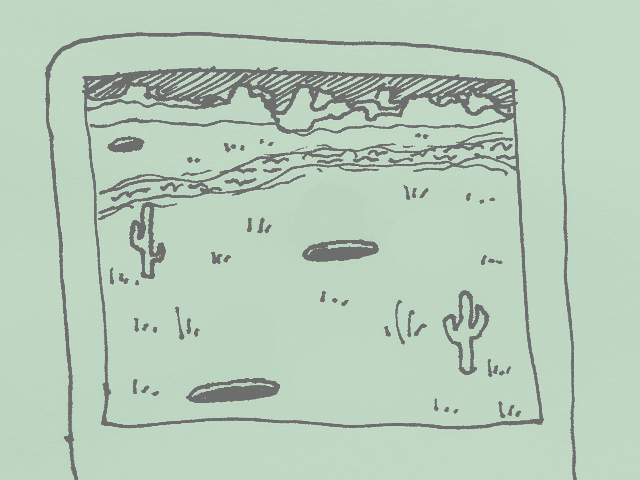
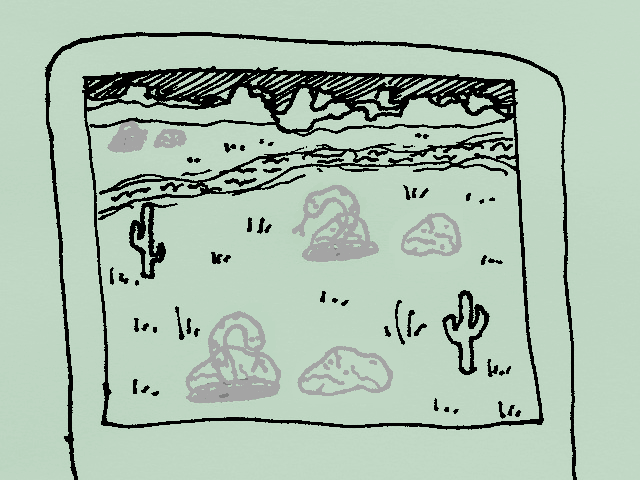
edited graphics

diff --git a/games/rocksimlcd/rocksimlcd.js b/games/rocksimlcd/rocksimlcd.js
@@ -20,31 +20,31 @@ function draw() {
     draw_sprite(canvas, bg, 0, 0);
 
     if (snake_timer_0 <= 0) {
-        draw_sprite(canvas, snake_img[0], 108, 115);
+        draw_sprite(canvas, snake_img[0], 102, 119);
     }
     if (snake_timer_1 <= 0) {
-        draw_sprite(canvas, snake_img[1], 180, 298);
+        draw_sprite(canvas, snake_img[1], 177, 293);
     }
     if (snake_timer_2 <= 0) {
-        draw_sprite(canvas, snake_img[2], 283, 183);
+        draw_sprite(canvas, snake_img[2], 284, 183);
     }
     if (pos == 0 && jump == false) {
-        draw_sprite(canvas, rock_img[0], 156, 126);
+        draw_sprite(canvas, rock_img[0], 148, 125);
     }
     if (pos == 0 && jump) {
         draw_sprite(canvas, rock_img[0], 149-40, 126);
     }
     if (pos == 1 && jump == false) {
-        draw_sprite(canvas, rock_img[1], 290, 337);
+        draw_sprite(canvas, rock_img[1], 289, 337);
     }
     if (pos == 1 && jump) {
-        draw_sprite(canvas, rock_img[1], 290-110, 337);
+        draw_sprite(canvas, rock_img[1], 289-112, 336);
     }
     if (pos == 2 && jump == false) {
-        draw_sprite(canvas, rock_img[2], 392, 205);
+        draw_sprite(canvas, rock_img[2], 391, 203);
     }
     if (pos == 2 && jump) {
-        draw_sprite(canvas, rock_img[2], 392-90, 205);
+        draw_sprite(canvas, rock_img[2], 392-92, 203);
     }
 
     textout(canvas,font,"SCORE: " + score, 410, 120, 10, makecol(0,0,0));
